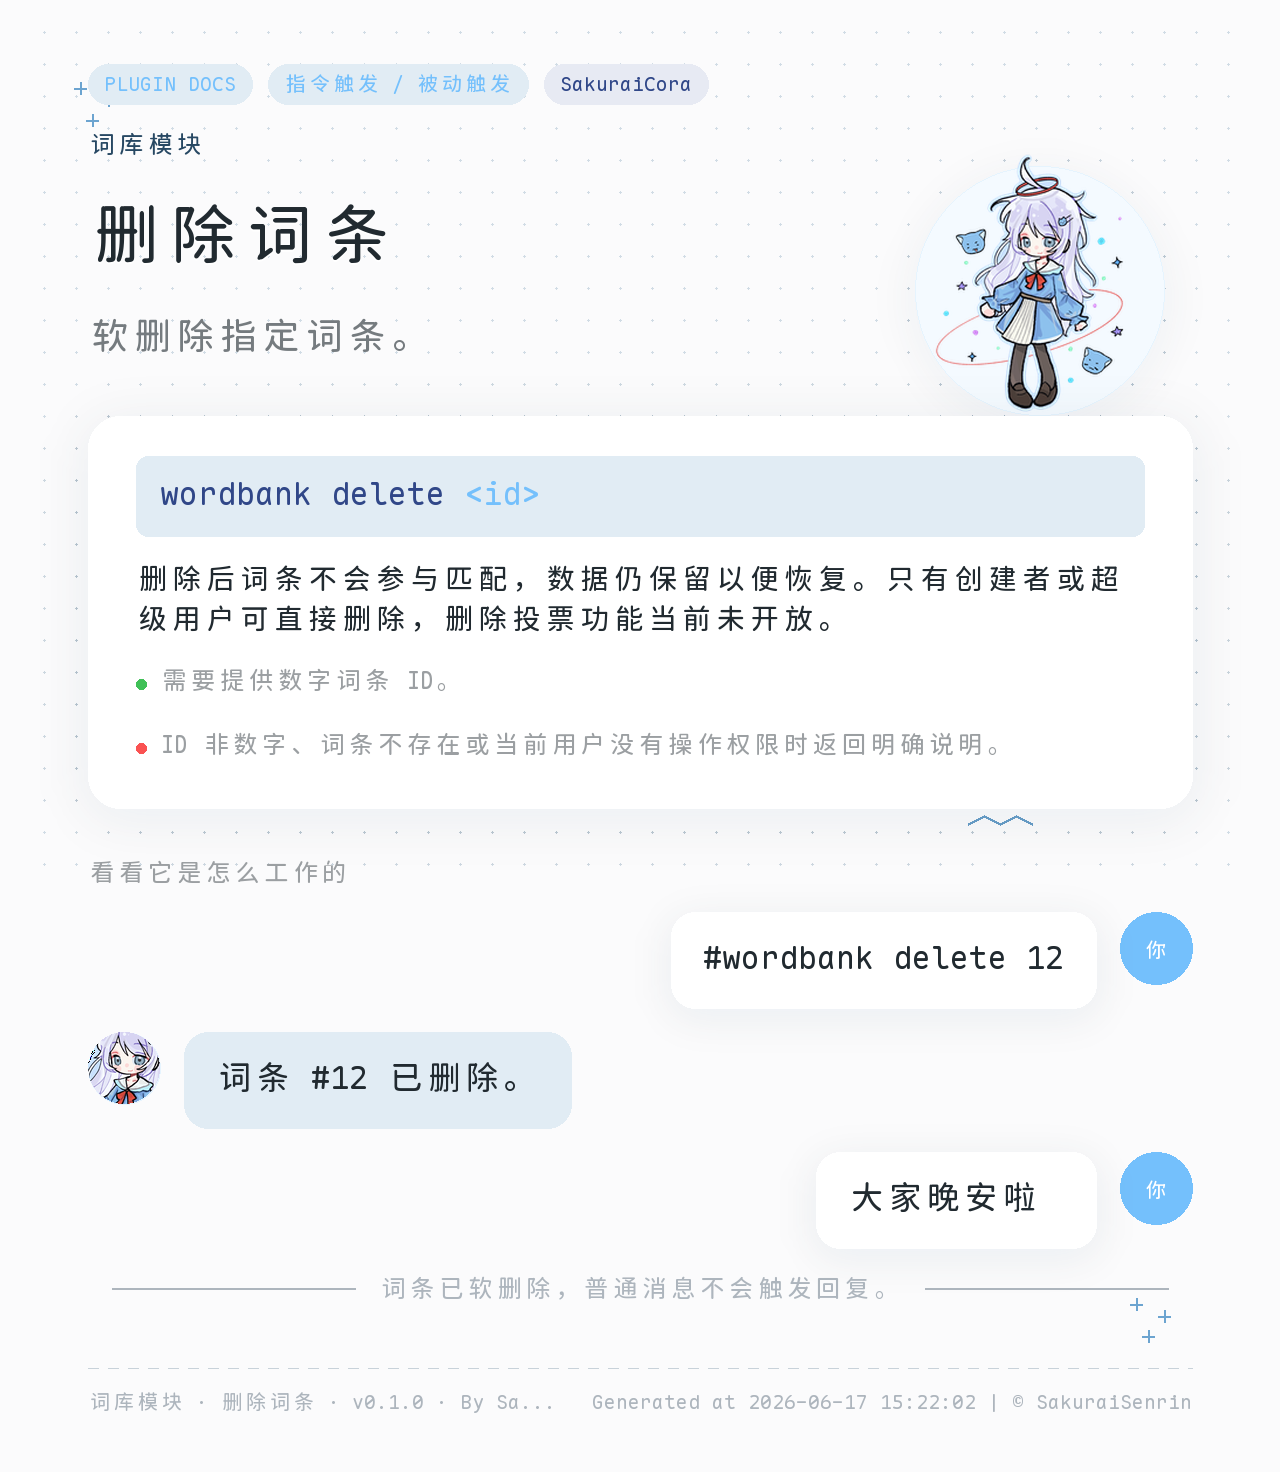
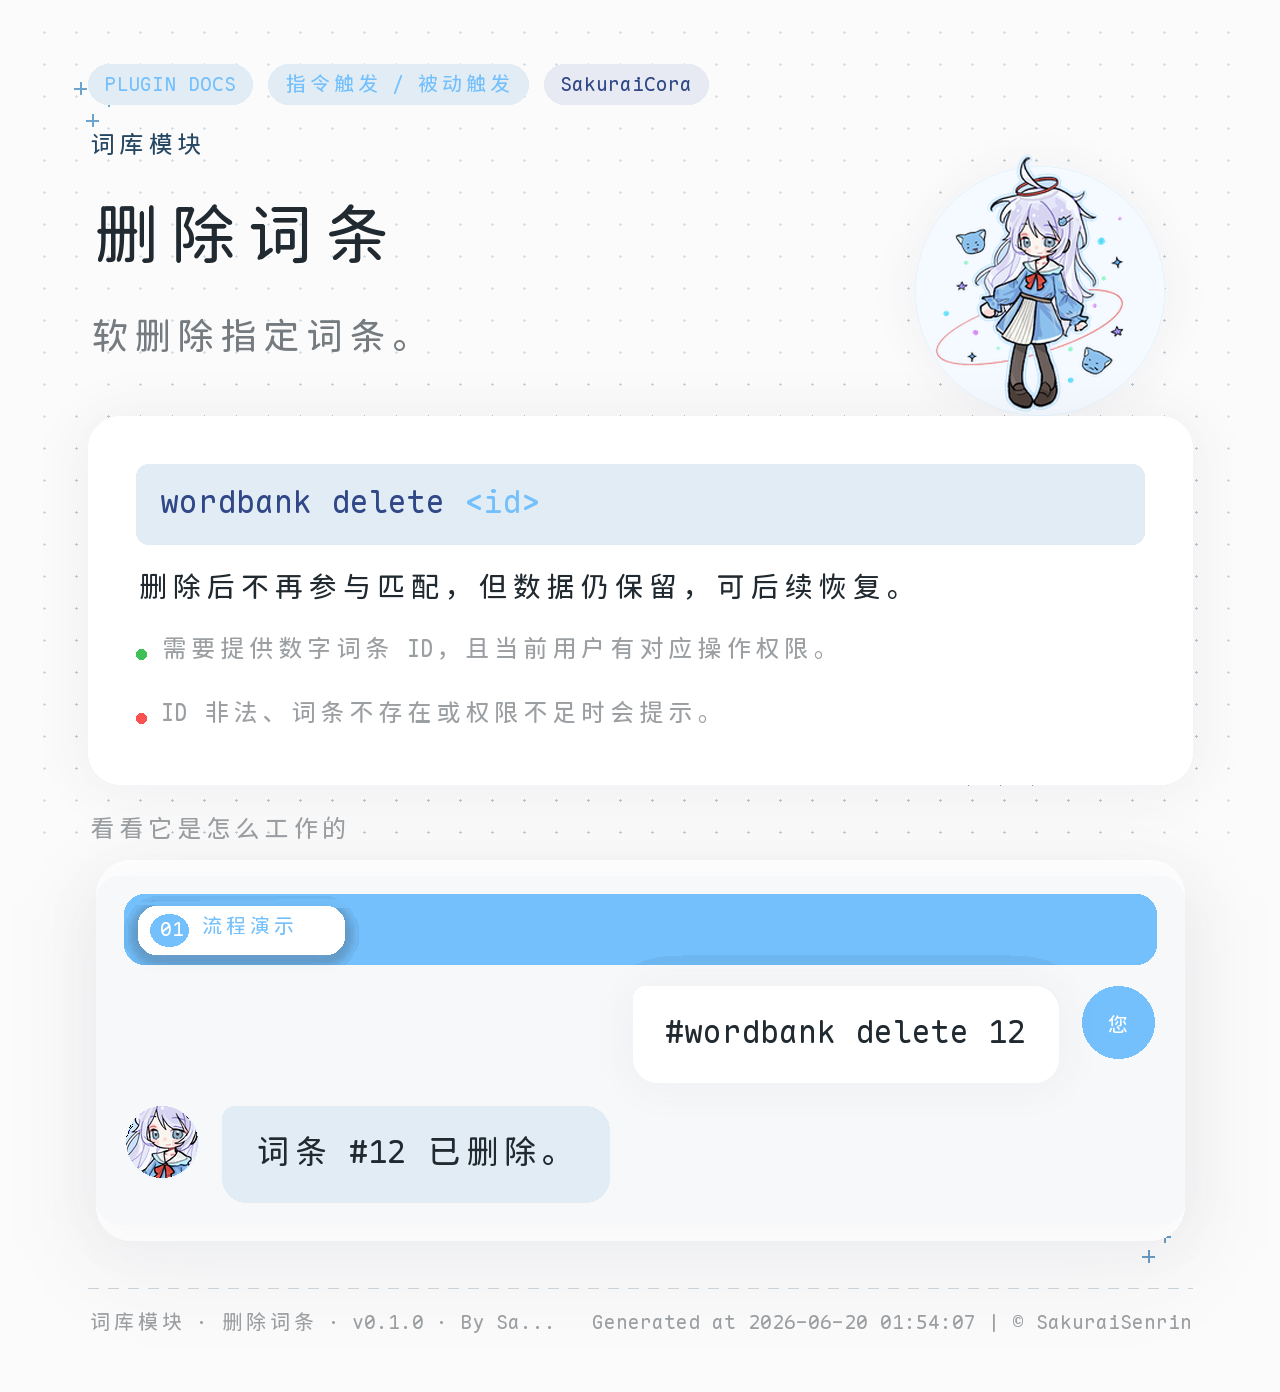
📝 docs(wordbank): 补全修改流程与 demo 文档

diff --git a/src/plugins/wordbank/docs/README.MD b/src/plugins/wordbank/docs/README.MD
@@ -67,9 +67,41 @@ USER: 1
 BOT: 是否需要高级选项？发送 n 跳过；需要请直接输入参数，例如 --prob 0.5 --weight 3 --role admin --call 60:0:3
 USER: n
 BOT: 词条已提交审核
+ID: 12
+状态: pending
+触发: 晚安
+响应: 做个好梦
+模式: contains
+范围: current_group
+概率: 1
+权重: 3
+管理员通过前不会触发。
+SYSTEM: 审核完成前，这条词条不会参与被动匹配；审核文档请查看 #help 词库审核。
+USER: #wordbank add 是这张图喔 [图片]
+BOT: 词条已提交审核
+ID: 13
+状态: pending
+触发: 是这张图喔
+响应: [图片:7]
+模式: contains
+范围: current_group
+概率: 1
+权重: 3
+管理员通过前不会触发。
+USER: #wordbank add [图片] => 是这张图喔
+BOT: 词条已提交审核
+ID: 14
+状态: pending
+触发: [图片:7]
+响应: 是这张图喔
+模式: fullmatch
+范围: current_group
+概率: 1
+权重: 3
+管理员通过前不会触发。
 ```
 #### 失败情况
-触发词或响应词为空、图片失败、规则冲突、参数越界，或引导中输入 `revoke` / `recall` 时会提示并终止。
+触发词或响应词为空、图片失败、规则冲突、参数越界时会提示。引导中输入 `revoke` / `recall` 会发送取消提示并中止；连续输错 3 次会强制终止对话。
 
 ### `add-scope` 生效范围选项
 - 摘要: 选择词条在哪些对象和场景上生效。
@@ -87,6 +119,21 @@ BOT: 词条已提交审核
 - `#wordbank add 私聊一下 => 收到 --scope private_only`
 #### 前置条件
 需要明确词条是群内通用、跨群、仅自己还是仅私聊。
+#### 完整流程
+```demo
+USER: #wordbank add 私聊一下 => 收到 --scope private_only
+BOT: 词条已提交审核
+ID: 16
+状态: pending
+触发: 私聊一下
+响应: 收到
+模式: contains
+范围: private_only
+概率: 1
+权重: 3
+管理员通过前不会触发。
+SYSTEM: `private_only` 仅在私聊里生效；如果需要群内通用词条，请改用 `current_group` 或 `all_groups`。
+```
 #### 失败情况
 scope 拼写错误或重复设置时会返回说明。
 
@@ -104,6 +151,21 @@ scope 拼写错误或重复设置时会返回说明。
 - `#wordbank add 哈哈 => 笑死 --prob 0.2`
 #### 前置条件
 建议只用于容易高频误触的词条。
+#### 完整流程
+```demo
+USER: #wordbank add 早 => 早安呀 --prob 0.5
+BOT: 词条已提交审核
+ID: 17
+状态: pending
+触发: 早
+响应: 早安呀
+模式: fullmatch
+范围: current_group
+概率: 0.5
+权重: 3
+管理员通过前不会触发。
+SYSTEM: `--prob 0.5` 表示命中 trigger group 后大约只有一半概率真正回复，适合给高频短词降噪。
+```
 #### 失败情况
 概率不是数字或不在 `0-1` 范围内时会提示。
 
@@ -121,6 +183,21 @@ scope 拼写错误或重复设置时会返回说明。
 - `#wordbank add 晚安 => 晚安晚安 --weight 1`
 #### 前置条件
 适合同一触发词下存在多条候选响应的场景。
+#### 完整流程
+```demo
+USER: #wordbank add 晚安 => 做个好梦 --weight 5
+BOT: 词条已提交审核
+ID: 18
+状态: pending
+触发: 晚安
+响应: 做个好梦
+模式: contains
+范围: current_group
+概率: 1
+权重: 5
+管理员通过前不会触发。
+SYSTEM: `--weight 5` 不会提高 trigger 本身的命中率，只会让这条响应在同组候选里更容易被抽中。
+```
 #### 失败情况
 权重不是 `1-5` 的整数时会提示。
 
@@ -139,6 +216,21 @@ scope 拼写错误或重复设置时会返回说明。
 - `#wordbank add 萌新报道 => 欢迎加入 --role member`
 #### 前置条件
 只在群聊里有实际区分意义。
+#### 完整流程
+```demo
+USER: #wordbank add 管理员集合 => 管理员请看这里 --role admin
+BOT: 词条已提交审核
+ID: 19
+状态: pending
+触发: 管理员集合
+响应: 管理员请看这里
+模式: contains
+范围: current_group
+概率: 1
+权重: 3
+管理员通过前不会触发。
+SYSTEM: `--role admin` 只允许群管理员触发；普通成员发送同样内容时不会命中这条词条。
+```
 #### 失败情况
 角色值非法时会提示。
 
@@ -156,6 +248,21 @@ scope 拼写错误或重复设置时会返回说明。
 - `#wordbank add 又来了 => 欢迎回来 --call 60:2:5`
 #### 前置条件
 适合限制高频触发词的回复节奏。
+#### 完整流程
+```demo
+USER: #wordbank add 又来了 => 欢迎回来 --call 60:2:5
+BOT: 词条已提交审核
+ID: 20
+状态: pending
+触发: 又来了
+响应: 欢迎回来
+模式: contains
+范围: current_group
+概率: 1
+权重: 3
+管理员通过前不会触发。
+SYSTEM: `--call 60:2:5` 表示 60 秒窗口内从第 2 次开始触发，第 5 次之后静默，适合限制刷屏词条。
+```
 #### 失败情况
 结构错误、数字非法、窗口超限或 `min > max` 时会提示。
 
@@ -268,31 +375,57 @@ ID 非法、词条不存在或权限不足时会提示。
 
 ### `trigger` 修改触发词与触发概率
 - 摘要: 修改 trigger group 的整体概率或触发内容。
+- Advanced: true
+- Priority: 70
+- 别名: trigger, 触发, 触发词, trigger prob, trigger set
 - 指令:
   - `wordbank trigger prob <group_id> <0.0-1.0>`
   - `wordbank trigger set <group_id> <新触发内容>`
+- Demo: wordbank-trigger.png
 #### 说明
-`trigger prob` 改整组命中概率；`trigger set` 改触发内容。修改触发内容后，该组会重新进入 `pending`，需要重新审核。
+`trigger prob` 修改整组触发概率，不改动已有响应内容；`trigger set` 修改触发内容本身，支持纯文本、图片触发或图文混排。触发内容变更后，该组下已有响应会重新进入 `pending`，需要重新审核后才会重新参与被动匹配。
 #### 常用示例命令
 - `#wordbank trigger prob 271 0.3`
 - `#wordbank trigger set 271 晚安啦`
+- `#wordbank trigger set 271 [图片]`
 #### 前置条件
-仅超级用户可执行。
+`trigger prob` 与 `trigger set` 都要求当前用户对目标 trigger group 有修改权限；实际使用里通常由超级用户统一维护。
+#### 完整流程
+```demo
+USER: #wordbank trigger prob 271 0.3
+BOT: trigger group #271 的触发概率已更新为 0.3。
+USER: #wordbank trigger set 271 晚安啦
+BOT: trigger group #271 的触发词已更新，该组响应已重新进入待审核。
+SYSTEM: `trigger prob` 只更新整组命中率；`trigger set` 修改触发内容后会让整组重新进入 pending，等待管理员重新审核。
+```
 #### 失败情况
-group 不存在、内容冲突、参数非法或权限不足时会提示。
+group 不存在、触发词冲突、概率不在 `0-1` 范围内、图片无法识别或权限不足时会提示。
 
 ### `response` 修改响应词与响应权重
 - 摘要: 修改某条响应内容或权重。
+- Advanced: true
+- Priority: 80
+- 别名: response, 响应, 响应词, response weight, response set
 - 指令:
   - `wordbank response weight <id> <1-5>`
   - `wordbank response set <id> <新响应内容>`
+- Demo: wordbank-response.png
 #### 说明
-`response weight` 只影响同组内抽样；`response set` 修改内容后会重新进入 `pending`。
+`response weight` 只影响同一 trigger group 内多条响应的抽样权重；`response set` 用于改正文案、图片或图文混排响应。修改响应内容后，这一条响应会重新进入 `pending`，不会立刻生效。
 #### 常用示例命令
 - `#wordbank response weight 12 5`
 - `#wordbank response set 12 做个好梦`
+- `#wordbank response set 12 做个好梦 [图片]`
 #### 前置条件
 超级用户可修改任意响应；普通用户仅可改自己创建的响应。
+#### 完整流程
+```demo
+USER: #wordbank response weight 12 5
+BOT: 词条 #12 的响应权重已更新为 5。
+USER: #wordbank response set 12 做个好梦
+BOT: 词条 #12 的响应内容已更新，并重新进入待审核。
+SYSTEM: `response weight` 只改变组内抽样倾向；`response set` 会改动响应内容本身，因此该条响应会重新进入 pending。
+```
 #### 失败情况
 ID 非法、对象不存在、参数越界或权限不足时会提示。
 
@@ -321,6 +454,7 @@ ID 非法、对象不存在、参数越界或权限不足时会提示。
 ```demo
 USER: [戳一戳机器人]
 BOT: 别戳啦
+SYSTEM: 如果命中的是 `group_recall` / `friend_recall` 一类撤回信号，词库会直接跳过，不发送回复。
 ```
 #### 失败情况
 未命中、规则不通过、概率未命中、图片失败或命中撤回信号时不回复。
@@ -339,10 +473,18 @@ BOT: 别戳啦
 必须回复一条由词库系统记录过上下文的机器人消息，且当前用户满足对应权限。
 #### 完整流程
 ```demo
+USER: [回复机器人词库消息] @机器人 info
+BOT: 词条 #300 状态摘要
+管理员审核通过后才变为 approved。
 USER: [回复机器人词库消息] @机器人 详情
 BOT: 词条详情 #12
-USER: [回复机器人词库消息] @机器人 删除
-BOT: 词条 #12 已删除。
+触发: 晚安
+响应: 做个好梦
+USER: [回复机器人词库消息] @机器人 trigger prob 0.3
+BOT: trigger group #12 的触发概率已更新为 0.3。
+USER: [回复机器人词库消息] @机器人 response weight 5
+BOT: 词条 #300 的响应权重已更新为 5。
+SYSTEM: 回复快捷修改会自动从上下文里拿到对应的 trigger group 或 response item，不需要再次手填完整 ID。
 ```
 #### 失败情况
-未回复有效上下文、对象已清理或权限不足时会提示。
+未回复有效上下文、对象已清理、命令不受支持或权限不足时会提示。
